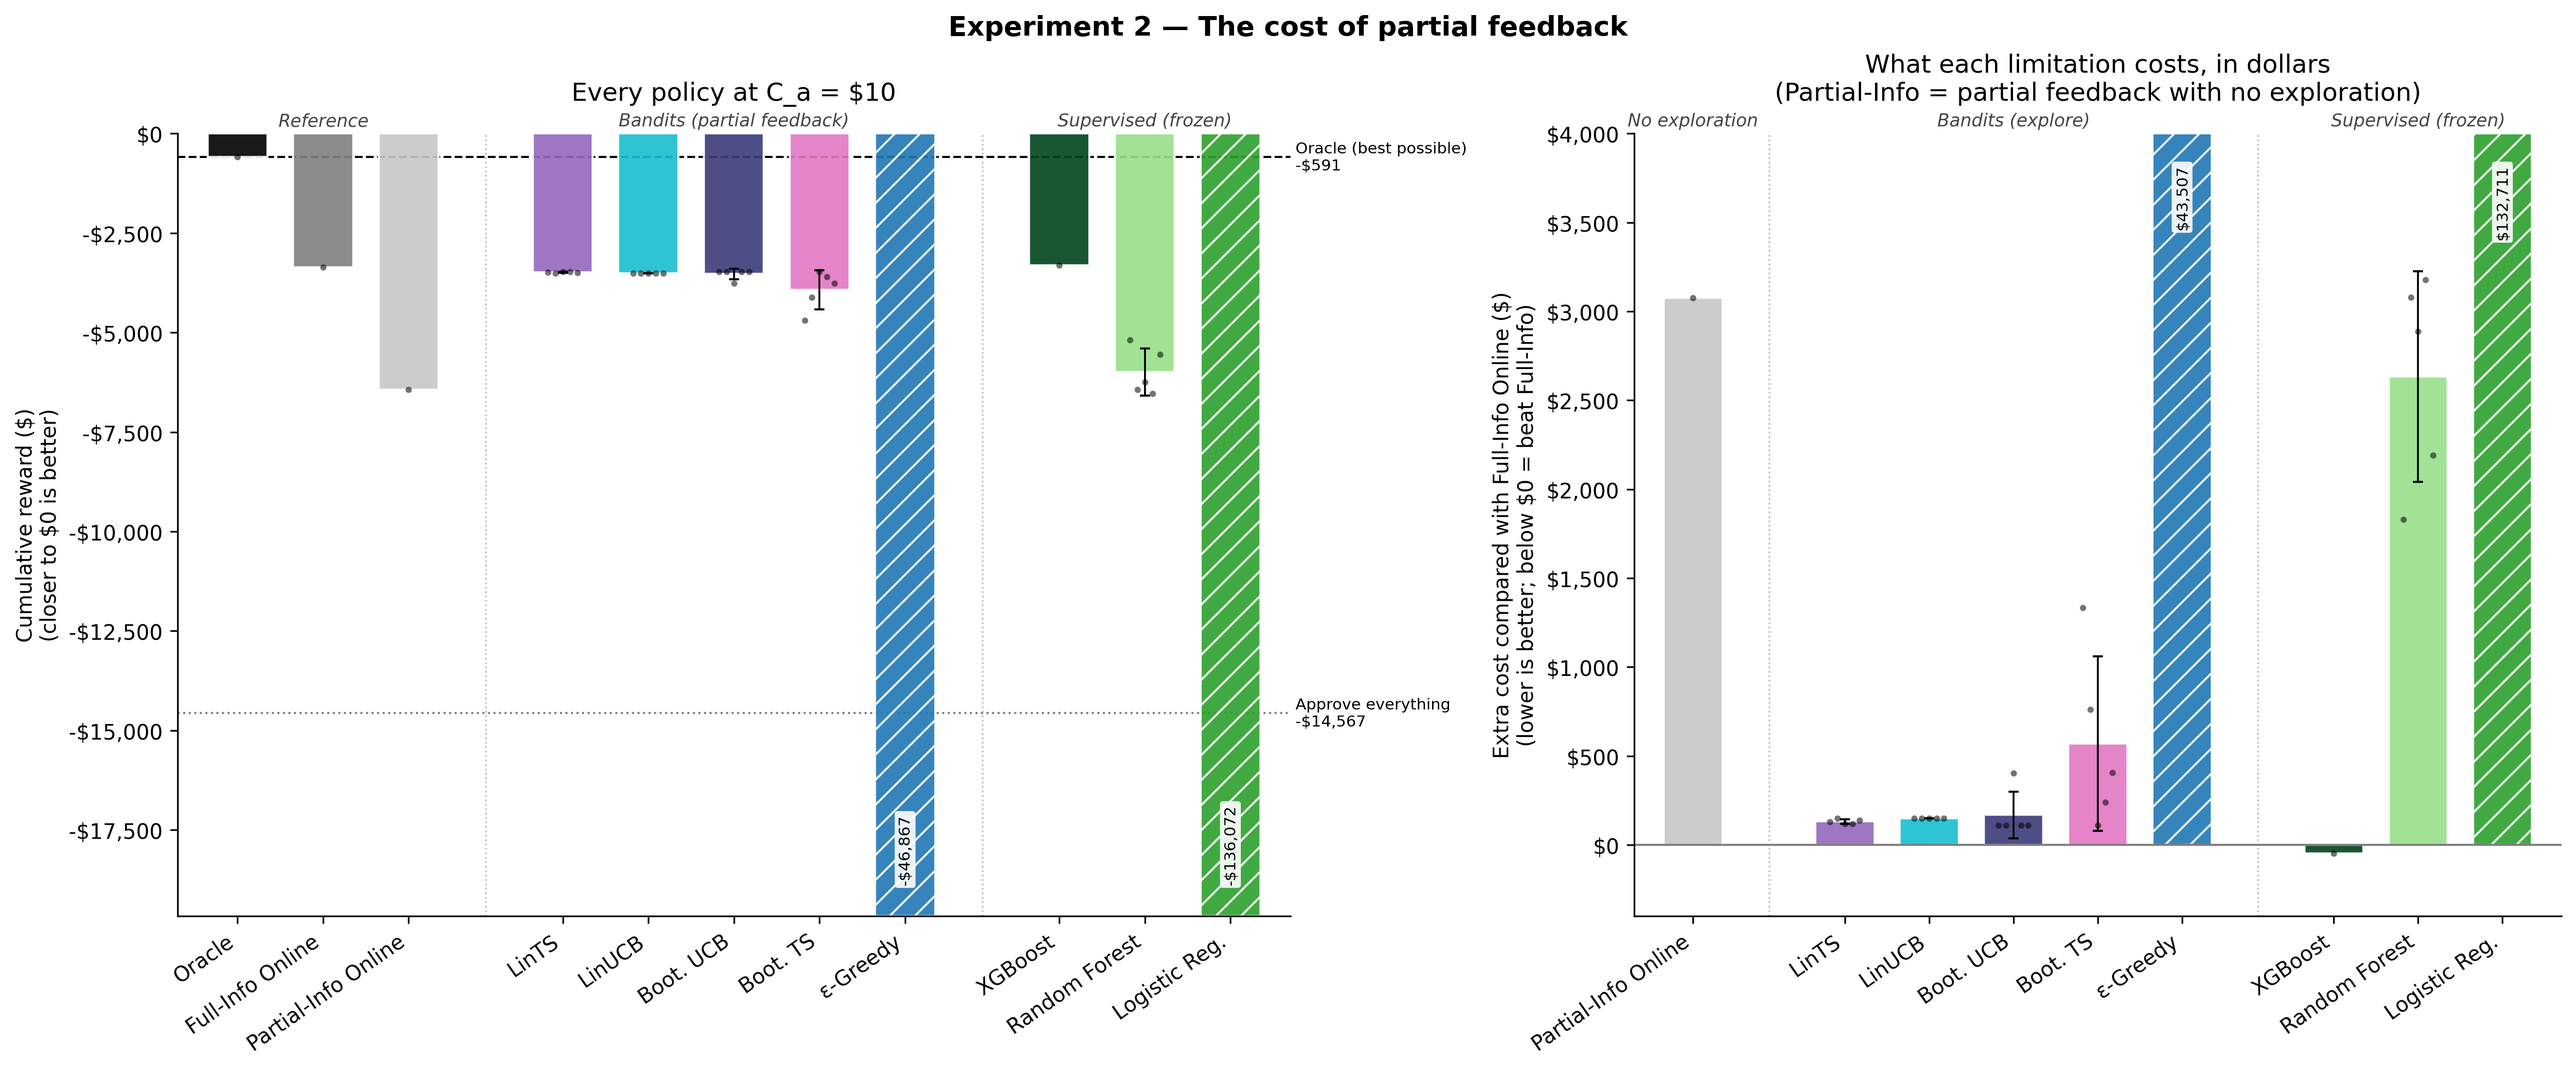
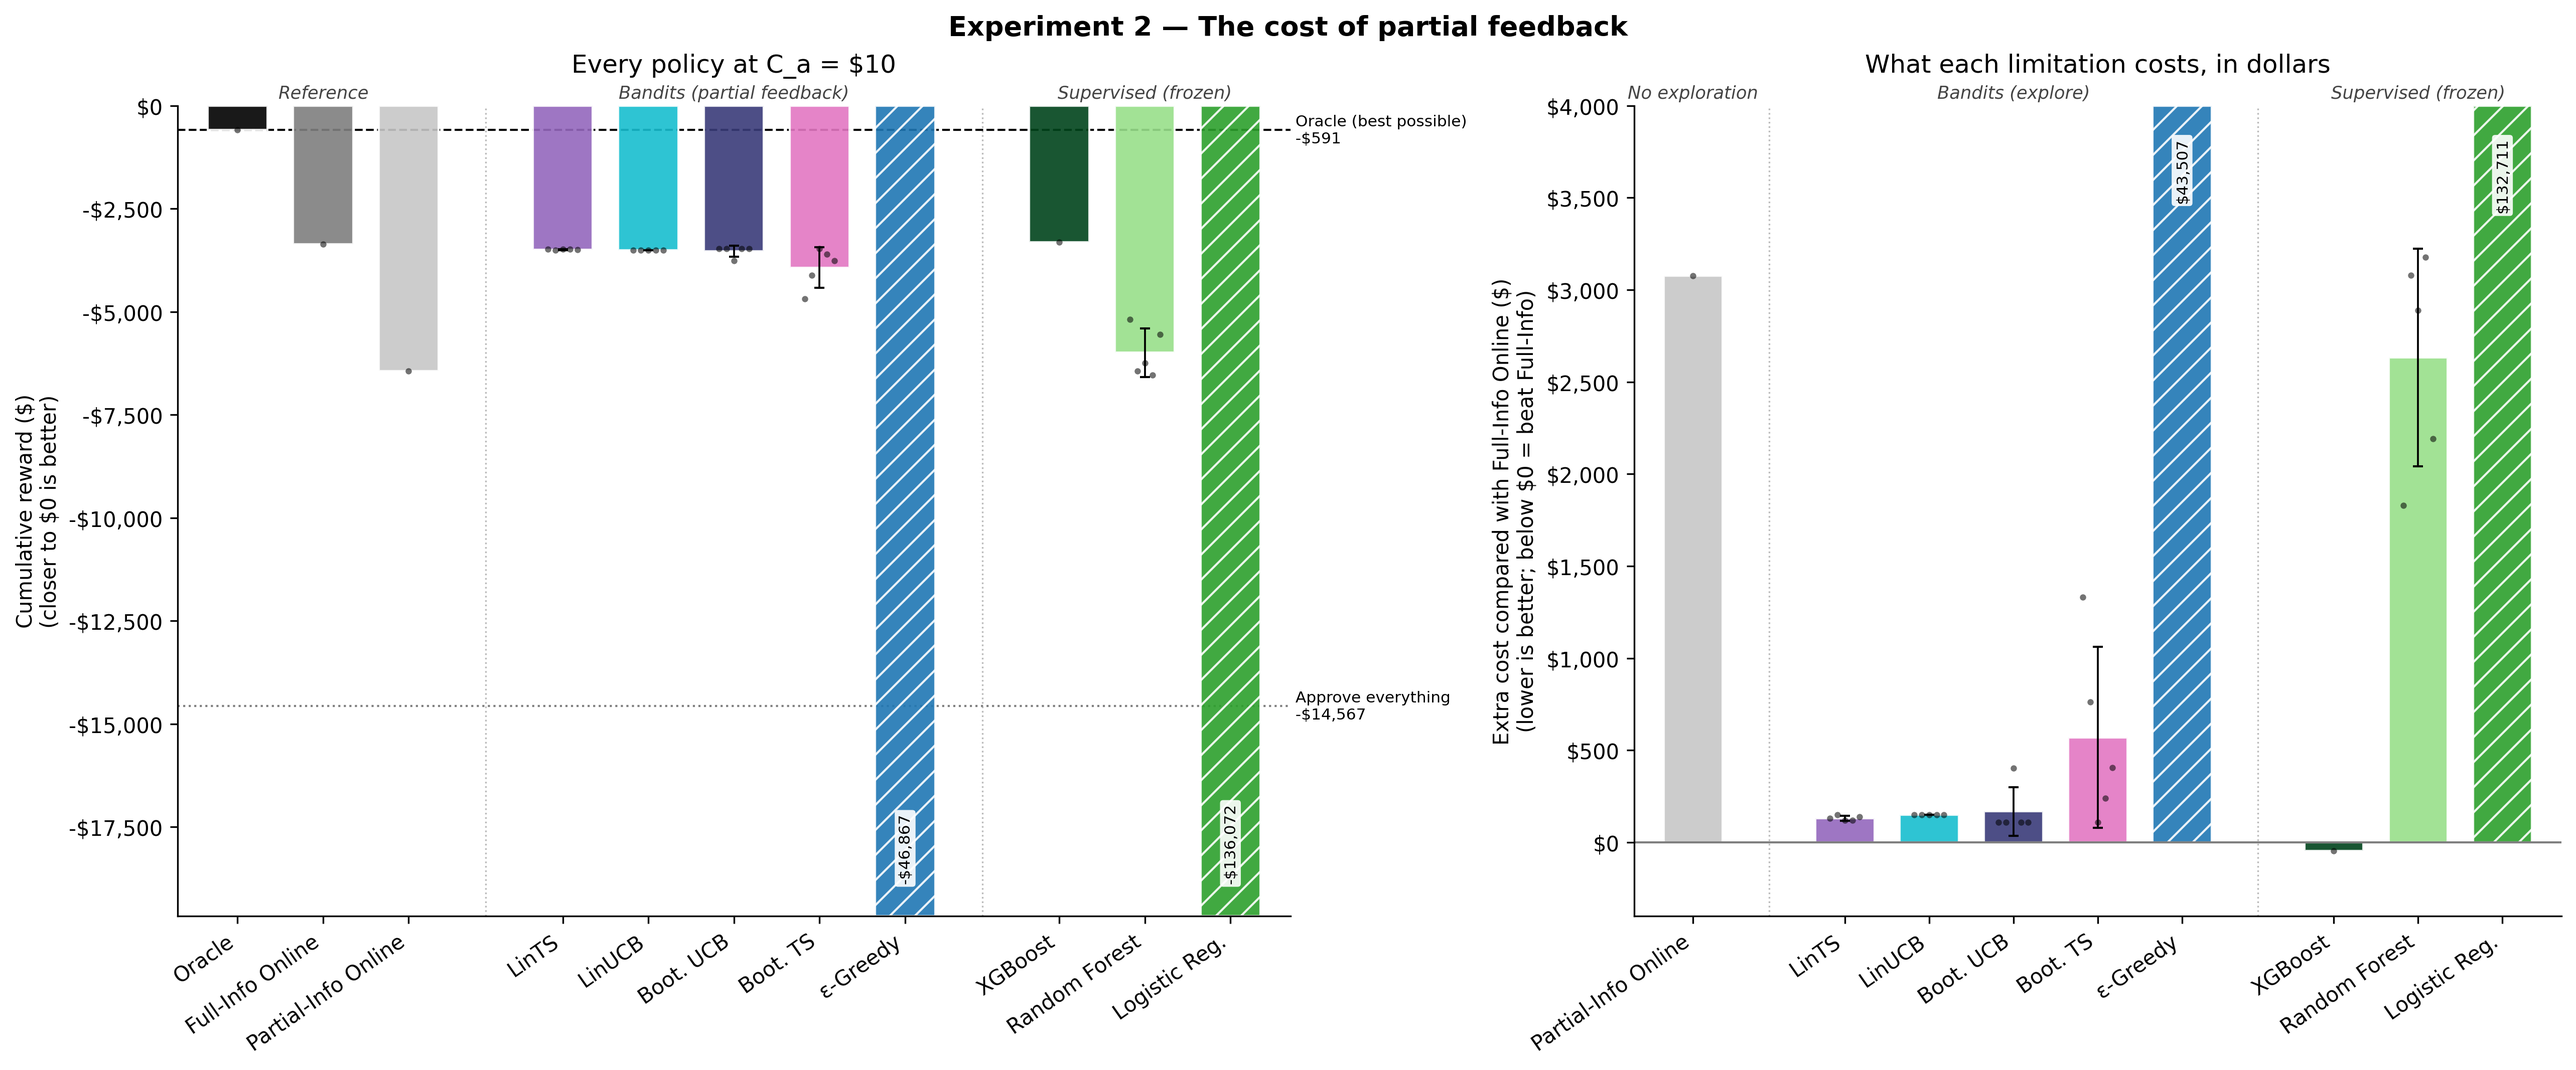
Add new figures and CSV exports

diff --git a/graphs.py b/graphs.py
@@ -14,10 +14,22 @@ Combined figures -> Graphs/combined/
     A  All policies -- classification metrics (precision, recall, F1, AUPRC)
     B  All policies -- decision quality (cumulative reward, cumulative regret)
     C  Experiment 1 -- sensitivity to the investigation cost C_a
-    D  Experiment 2 -- the cost of partial feedback
+    D  Experiment 2 -- the cost of partial feedback, as TWO standalone figures:
+         D_partial_feedback_left.png   cumulative reward of every policy
+         D_partial_feedback_right.png  extra cost compared with Full-Info Online
+
+Data exports -> Graphs/combined/ (the exact numbers behind two panels; each is
+built by the same function the plot uses, so CSV and figure always agree)
+    C_sensitivity_analysis_right.csv  Experiment 1, right panel: for each
+        algorithm and each investigation cost C_a,
+        difference = cost-sensitive cumulative reward - 0/1 cumulative reward
+        (mean over seeds). The x-axis of that panel is C_a, not time.
+    D_partial_feedback_cost_right.csv Experiment 2, right panel: for each policy,
+        extra cost = Full-Info Online cumulative reward - policy cumulative reward
+        (mean and std over seeds; positive = extra loss vs Full-Info Online)
 
 Separate figures (with --separate) -> Graphs/separate/
-    01-10 the pairwise comparisons, 11-12 the two experiments (same as C, D)
+    01-10 the pairwise comparisons, 11 = C, 12 = D (also split left / right)
 
 Reading the figures
 -------------------
@@ -350,7 +362,7 @@ def fig_decision(inputs, curves, policies, title, regret_by_family=True):
                 ax.set_ylabel("")
     else:
         regret_panel(fig.add_subplot(grid[1, 0]), curves, policies,
-                     "Cumulative regret over time (mean over seeds)")
+                     "Cumulative regret over time")
     return fig
 
 
@@ -368,7 +380,7 @@ def fig_decision_paired(inputs, curves, title):
     reward_reference_lines(top, inputs)
     top.set_ylabel("Cumulative reward ($)\n(closer to $0 is better)")
     top.yaxis.set_major_formatter(MONEY)
-    top.set_title("Cumulative reward at the end of the test period (mean ± std over seeds)", pad=16)
+    top.set_title("Cumulative Reward", pad=16)
     for i, a in enumerate(ALGORITHMS):
         ax = fig.add_subplot(grid[1, i])
         regret_panel(ax, curves, [f"CS_{a}", f"LM_{a}"], ALGO_LABEL[a], show_legend=False)
@@ -381,6 +393,29 @@ def fig_decision_paired(inputs, curves, title):
         if i != 2:
             ax.set_xlabel("")
     return fig
+
+
+def sensitivity_gap_table(inputs):
+    """The exact series plotted in Experiment 1's right panel.
+    One row per algorithm per C_a:
+        difference = cost-sensitive cumulative reward - 0/1 cumulative reward
+    using each policy's mean over seeds. Also used for the CSV export."""
+    means = inputs.sens.pivot(index="policy", columns="C_a", values="cumulative_reward_mean")
+    rows = []
+    for a in ALGORITHMS:
+        cs, lm = f"CS_{a}", f"LM_{a}"
+        if cs in means.index and lm in means.index:
+            for c in means.columns:
+                rows.append({
+                    "C_a": float(c),
+                    "algorithm": a,
+                    "cost_sensitive_policy": cs,
+                    "label_matching_policy": lm,
+                    "cost_sensitive_cumulative_reward_mean": float(means.loc[cs, c]),
+                    "label_matching_cumulative_reward_mean": float(means.loc[lm, c]),
+                    "difference": float(means.loc[cs, c] - means.loc[lm, c]),
+                })
+    return pd.DataFrame(rows)
 
 
 def fig_sensitivity(inputs):
@@ -418,10 +453,11 @@ def fig_sensitivity(inputs):
     a1.text(C_A, len(ranks) + 0.6, f"default ${C_A:g}", fontsize=8, color=GREY,
             ha="center", va="top")
 
+    gaps = sensitivity_gap_table(inputs)                  # same numbers as the CSV
     for j, a in enumerate(ALGORITHMS):
-        if f"CS_{a}" in means.index and f"LM_{a}" in means.index:
-            gap = means.loc[f"CS_{a}"] - means.loc[f"LM_{a}"]
-            a2.plot(gap.index, gap.values, color=BLACK, lw=1.6, marker="osD^v"[j], ms=6,
+        g = gaps[gaps["algorithm"] == a].sort_values("C_a")
+        if len(g):
+            a2.plot(g["C_a"], g["difference"], color=BLACK, lw=1.6, marker="osD^v"[j], ms=6,
                     ls=["-", "--", "-.", ":", (0, (5, 1, 1, 1))][j], label=ALGO_LABEL[a])
     a2.axhline(0, color=GREY, lw=1)
     cost_axis(a2)
@@ -433,43 +469,104 @@ def fig_sensitivity(inputs):
     return fig
 
 
-def fig_partial_feedback(inputs):
-    """Experiment 2: (a) cumulative reward of every policy, (b) extra cost
-    compared with Full-Info Online -- the partial-feedback and frozen costs, in dollars."""
+def _pf_groups(inputs):
+    """Policy groups for Experiment 2, each ordered best first."""
     df = inputs.pf
     by_family = lambda fam: (df[df["family"] == fam].groupby("policy", sort=False)
-                             ["cumulative_reward"].mean().sort_values(ascending=False).index.tolist())
-    groups_a = [("Reference", ["Oracle", "FullInfoOnline", "PartialInfoOnline"]),
-                ("Bandits (partial feedback)", by_family("Bandit (partial feedback)")),
-                ("Supervised (frozen)", by_family("Supervised (frozen)"))]
-    vals = lambda p: df.loc[df["policy"] == p, "cumulative_reward"].to_numpy(float)
+                             ["cumulative_reward"].mean().sort_values(ascending=False)
+                             .index.tolist())
+    return {"Reference": [p for p in ("Oracle", "FullInfoOnline", "PartialInfoOnline")
+                          if (df["policy"] == p).any()],
+            "Bandits": by_family("Bandit (partial feedback)"),
+            "Supervised": by_family("Supervised (frozen)")}
 
-    fig, (a1, a2) = plt.subplots(1, 2, figsize=(17, 7), constrained_layout=True,
-                                 gridspec_kw={"width_ratios": [1.2, 1]})
-    fig.suptitle("Experiment 2 — The cost of partial feedback", fontsize=13, fontweight="bold")
-    grouped_bars(a1, groups_a, vals, reward_ylim(inputs), fmt=money)
-    reward_reference_lines(a1, inputs)
-    a1.set_ylabel("Cumulative reward ($)\n(closer to $0 is better)")
-    a1.yaxis.set_major_formatter(MONEY)
-    a1.set_title(f"Every policy at C_a = ${C_A:g}", pad=16)
 
-    full = df.loc[df["policy"] == "FullInfoOnline", "cumulative_reward"]
-    if len(full):
-        full = float(full.mean())
-        extra = lambda p: full - vals(p)
-        groups_b = [("No exploration", ["PartialInfoOnline"]),
-                    ("Bandits (explore)", groups_a[1][1]),
-                    ("Supervised (frozen)", groups_a[2][1])]
-        cap = 1.3 * float(extra("PartialInfoOnline").mean()) if len(vals("PartialInfoOnline")) \
-            else 5000.0
-        grouped_bars(a2, groups_b, extra, (min(-0.1 * cap, -200), cap), fmt=money)
-        a2.axhline(0, color=GREY, lw=1)
-        a2.set_ylabel("Extra cost compared with Full-Info Online ($)\n"
-                      "(lower is better; below $0 = beat Full-Info)")
-        a2.yaxis.set_major_formatter(MONEY)
-        a2.set_title("What each limitation costs, in dollars\n"
-                     "(Partial-Info = partial feedback with no exploration)", pad=16)
+def _pf_rewards(inputs, policy):
+    """Per-seed cumulative rewards of one policy in Experiment 2."""
+    df = inputs.pf
+    return df.loc[df["policy"] == policy, "cumulative_reward"].to_numpy(float)
+
+
+def _pf_full_info(inputs):
+    full = _pf_rewards(inputs, "FullInfoOnline")
+    return float(full.mean()) if len(full) else None
+
+
+def _pf_extra_cost(inputs, policy):
+    """Per-seed extra cost vs Full-Info Online:
+        Full-Info Online cumulative reward - policy cumulative reward
+    Positive = the policy lost more money than Full-Info Online."""
+    return _pf_full_info(inputs) - _pf_rewards(inputs, policy)
+
+
+def _pf_right_groups(inputs):
+    g = _pf_groups(inputs)
+    return [("No exploration", [p for p in ["PartialInfoOnline"] if p in g["Reference"]]),
+            ("Bandits (explore)", g["Bandits"]),
+            ("Supervised (frozen)", g["Supervised"])]
+
+
+def partial_feedback_extra_table(inputs):
+    """The exact series plotted in Experiment 2's right panel, one row per policy
+    (bar = mean over seeds, error bar = std). Also used for the CSV export."""
+    full = _pf_full_info(inputs)
+    rows = []
+    for group, pols in _pf_right_groups(inputs):
+        for p in pols:
+            extra = _pf_extra_cost(inputs, p)
+            rows.append({
+                "policy": p,
+                "group": group,
+                "n_seeds": len(extra),
+                "full_info_cumulative_reward": full,
+                "policy_cumulative_reward_mean": float(_pf_rewards(inputs, p).mean()),
+                "extra_cost_mean": float(extra.mean()),
+                "extra_cost_std": float(np.std(extra, ddof=1)) if len(extra) > 1 else np.nan,
+            })
+    return pd.DataFrame(rows)
+
+
+def fig_partial_feedback_left(inputs):
+    """Experiment 2, standalone figure 1: cumulative reward of every policy."""
+    g = _pf_groups(inputs)
+    groups = [("Reference", g["Reference"]), ("Bandits (partial feedback)", g["Bandits"]),
+              ("Supervised (frozen)", g["Supervised"])]
+    fig, ax = plt.subplots(figsize=(11, 6.5), constrained_layout=True)
+    fig.suptitle("Experiment 2 — Cumulative reward of every policy", fontsize=13,
+                 fontweight="bold")
+    grouped_bars(ax, groups, lambda p: _pf_rewards(inputs, p), reward_ylim(inputs), fmt=money)
+    reward_reference_lines(ax, inputs)
+    ax.set_ylabel("Cumulative reward ($)\n(closer to $0 is better)")
+    ax.yaxis.set_major_formatter(MONEY)
+    ax.set_title(f"All policies at C_a = ${C_A:g}", pad=16)
     return fig
+
+
+def fig_partial_feedback_right(inputs):
+    """Experiment 2, standalone figure 2: extra cost compared with Full-Info Online."""
+    fig, ax = plt.subplots(figsize=(10, 6.5), constrained_layout=True)
+    fig.suptitle("Experiment 2 — Extra cost compared with Full-Info Online",
+                 fontsize=13, fontweight="bold")
+    if _pf_full_info(inputs) is None:
+        ax.text(0.5, 0.5, "Full-Info Online not in the results", ha="center",
+                transform=ax.transAxes)
+        return fig
+    extra = lambda p: _pf_extra_cost(inputs, p)          # same numbers as the CSV
+    partial = _pf_rewards(inputs, "PartialInfoOnline")
+    cap = 1.3 * float(extra("PartialInfoOnline").mean()) if len(partial) else 5000.0
+    grouped_bars(ax, _pf_right_groups(inputs), extra, (min(-0.1 * cap, -200), cap), fmt=money)
+    ax.axhline(0, color=GREY, lw=1)
+    ax.set_ylabel("Full-Info Online cumulative reward − policy cumulative reward ($)\n"
+                  "(extra loss; lower is better; below $0 = beat Full-Info Online)")
+    ax.yaxis.set_major_formatter(MONEY)
+    ax.set_title("What each policy costs, in dollars", pad=16)
+    return fig
+
+
+def export_csv(df, path):
+    path.parent.mkdir(parents=True, exist_ok=True)
+    df.to_csv(path, index=False)
+    print(f"  saved {path.relative_to(GRAPHS_DIR.parent)}")
 
 
 # =====================================================================
@@ -492,18 +589,22 @@ def main():
     print("Combined figures:")
     if inputs.main is not None:
         everyone = inputs.present(ALL_POLICIES)
-        save(fig_classification(inputs, everyone, "All policies — Standard Metrics"),
+        save(fig_classification(inputs, everyone, "All policies — Standard metrics"),
              C / "A_all_standard.png")
-        save(fig_decision(inputs, curves, everyone, "All policies — Decision Quality"),
+        save(fig_decision(inputs, curves, everyone, "All policies — Decision quality"),
              C / "B_all_decision_quality.png")
     if inputs.sens is not None:
         fig = fig_sensitivity(inputs)
         save(fig, C / "C_sensitivity_analysis.png",
              *([S / "11_sensitivity_analysis.png"] if args.separate else []))
+        export_csv(sensitivity_gap_table(inputs), C / "C_sensitivity_analysis_right.csv")
     if inputs.pf is not None:
-        fig = fig_partial_feedback(inputs)
-        save(fig, C / "D_partial_feedback_cost.png",
-             *([S / "12_partial_feedback_cost.png"] if args.separate else []))
+        save(fig_partial_feedback_left(inputs), C / "D_partial_feedback_left.png",
+             *([S / "12_partial_feedback_left.png"] if args.separate else []))
+        save(fig_partial_feedback_right(inputs), C / "D_partial_feedback_right.png",
+             *([S / "12_partial_feedback_right.png"] if args.separate else []))
+        if _pf_full_info(inputs) is not None:
+            export_csv(partial_feedback_extra_table(inputs), C / "D_partial_feedback_cost_right.csv")
 
     if args.separate and inputs.main is not None:
         print("Separate figures:")
